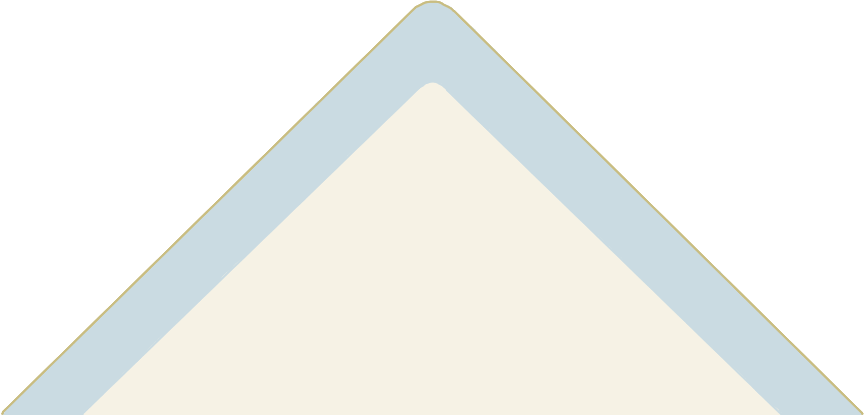
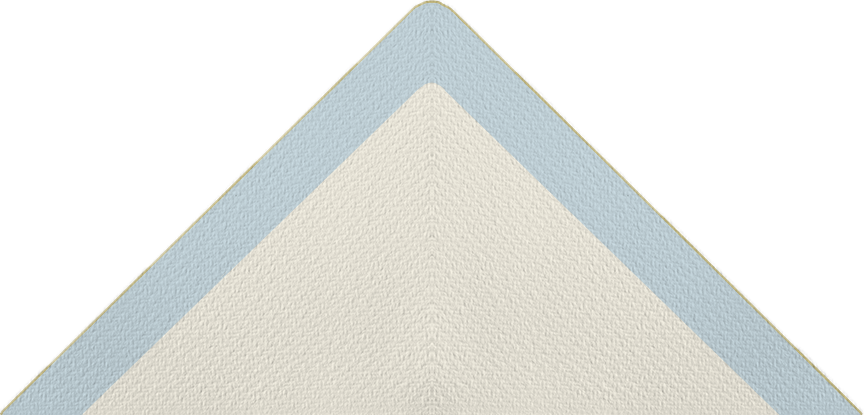
feat: update envelope

diff --git a/src/components/MainHeader/components/MainCard/MainCard.module.scss b/src/components/MainHeader/components/MainCard/MainCard.module.scss
@@ -43,14 +43,25 @@
   border-bottom-right-radius: 4px;
 
   .frontTitle {
-    background-color: #eabdbf;
+    background: linear-gradient(
+        0deg,
+        rgba(234, 189, 191, 0.7),
+        rgba(234, 189, 191, 0.7)
+      ),
+      url('../../../../assets/images/letter-texture.png');
     text-align: center;
     border-bottom-left-radius: 4px;
     border-bottom-right-radius: 4px;
   }
 
   .backTitle {
-    background-color: #eabdbf;
+    background: linear-gradient(
+        0deg,
+        rgba(255, 243, 216, 0.4),
+        rgba(255, 243, 216, 0.4)
+      ),
+      url('../../../../assets/images/letter-texture.png');
+    background-size: cover;
     transform: rotateY(180deg);
     border-bottom-left-radius: 4px;
     border-bottom-right-radius: 4px;
@@ -86,7 +97,13 @@
 
 .backCard {
   position: relative;
-  background-color: v.$main-background-color;
+  background: linear-gradient(
+      0deg,
+      rgba(255, 243, 216, 0.4),
+      rgba(255, 243, 216, 0.4)
+    ),
+    url('../../../../assets/images/letter-texture.png');
+  background-size: cover;
   border-bottom-left-radius: 4px;
   border-bottom-right-radius: 4px;
 }

diff --git a/src/components/contents/Wishes/Wishes.module.scss b/src/components/contents/Wishes/Wishes.module.scss
@@ -2,8 +2,7 @@
 @use '../../../styles/responsive' as r;
 
 .title {
-  @include r.responsive(font-size, 16);
-  @include r.responsive(margin-bottom, 20);
+  @include r.responsive(margin-bottom, 28);
 }
 
 .formAndWishesWrapper {

diff --git a/src/components/contents/Gifts/Gifts.module.scss b/src/components/contents/Gifts/Gifts.module.scss
@@ -40,7 +40,7 @@
 }
 .title {
   @include r.responsive(padding-top, 140);
-  color: v.$highlight-title-color;
+  color: v.$highlight-color;
 }
 
 .desc {
